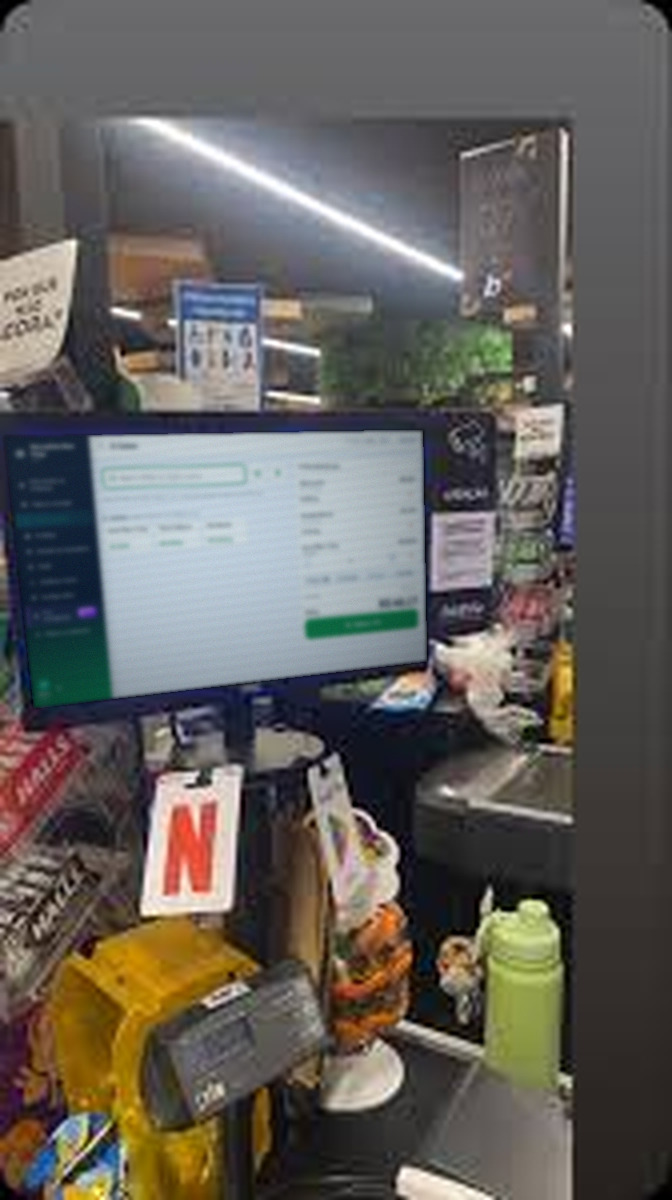
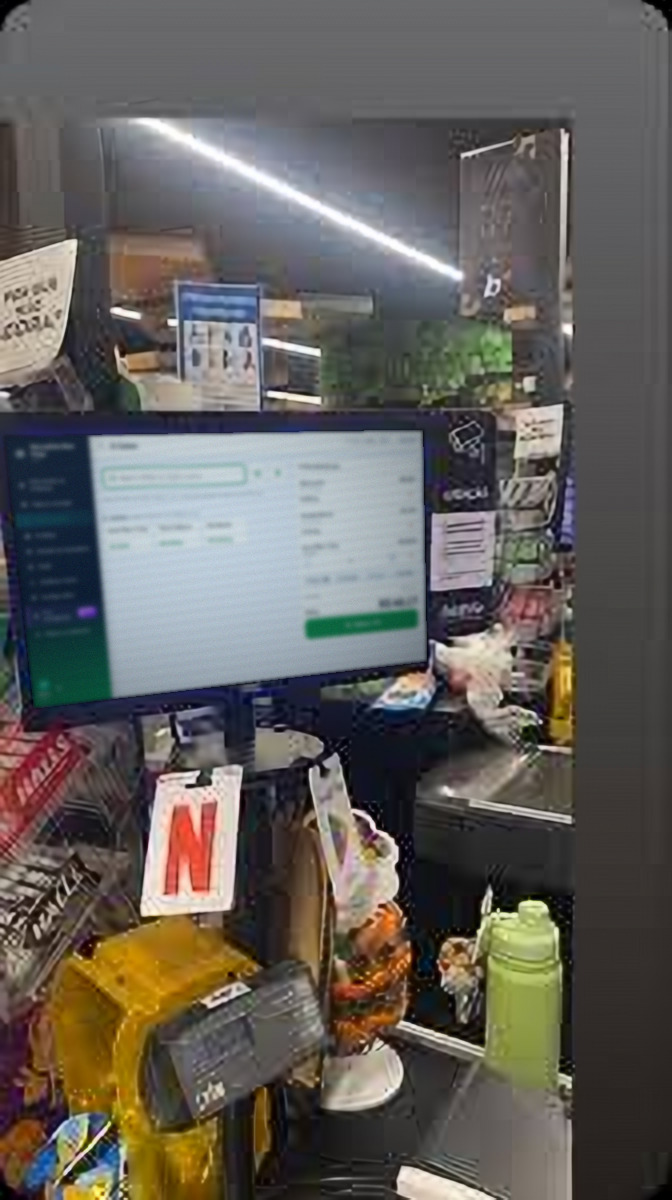
LinkedIn: foto 2 ampliada com super-resolução (Swin2SR) e tela do Future PDV
Claude-Session: https://claude.ai/code/session_011wVZ46enuREekw3fmvg4Fn

diff --git a/linkedin/edicao/upscale.py b/linkedin/edicao/upscale.py
@@ -1,0 +1,25 @@
+# Super-resolução com Swin2SR (x2) via ONNX, aplicada duas vezes (x4) com divisão em blocos
+import numpy as np, onnxruntime as ort, sys
+from PIL import Image
+sess=ort.InferenceSession('/tmp/sr/swin2SR-classical-sr-x2-64.onnx')
+def sr2(img, tile=96, pad=20):
+    a=np.asarray(img.convert('RGB')).astype(np.float32)/255.0
+    h,w,_=a.shape; out=np.zeros((h*2,w*2,3),np.float32)
+    for y in range(0,h,tile):
+        for x in range(0,w,tile):
+            y0,x0=max(0,y-pad),max(0,x-pad); y1,x1=min(h,y+tile+pad),min(w,x+tile+pad)
+            t=a[y0:y1,x0:x1]; th,tw=t.shape[:2]
+            ph,pw=(-th)%8,(-tw)%8
+            t=np.pad(t,((0,ph),(0,pw),(0,0)),mode='reflect')
+            r=sess.run(None,{'pixel_values':t.transpose(2,0,1)[None]})[0][0].transpose(1,2,0)
+            r=r[:th*2,:tw*2]
+            oy,ox=(y-y0)*2,(x-x0)*2
+            hh,ww=min(tile,h-y)*2,min(tile,w-x)*2
+            out[y*2:y*2+hh,x*2:x*2+ww]=r[oy:oy+hh,ox:ox+ww]
+    return Image.fromarray((np.clip(out,0,1)*255).astype(np.uint8))
+if __name__=='__main__':
+    im=Image.open(sys.argv[1]).convert('RGB')
+    x2=sr2(im); x4=sr2(x2,tile=128)
+    lan=im.resize(x4.size,Image.LANCZOS)
+    x4=Image.blend(lan,x4,0.6)
+    x4.save(sys.argv[2]); print(im.size,'->',x4.size)

diff --git a/linkedin/edicao/editar2.py b/linkedin/edicao/editar2.py
@@ -2,7 +2,7 @@ from PIL import Image, ImageDraw, ImageFilter
 import numpy as np, io
 S=4
 orig=Image.open('linkedin/edicao/original2.png').convert('RGB')
-im=orig.resize((orig.width*S,orig.height*S),Image.LANCZOS); W,H=im.size
+im=Image.open('linkedin/edicao/original2_sr4x.png').convert('RGB'); W,H=im.size
 # quad da tela na foto original (168x300) -> escala S
 q=[(1.0,109.0),(105.8,107.4),(106.8,165.4),(8.4,177.2)]
 dst=[(x*S,y*S) for x,y in q]
